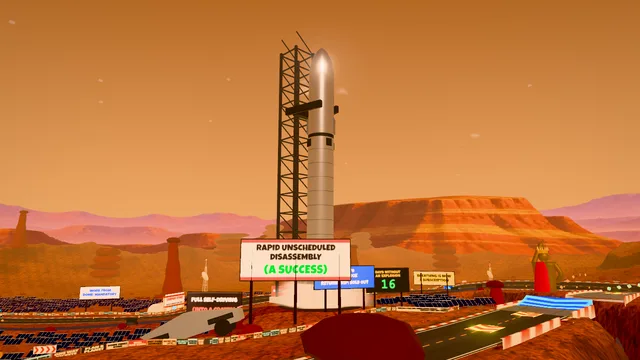
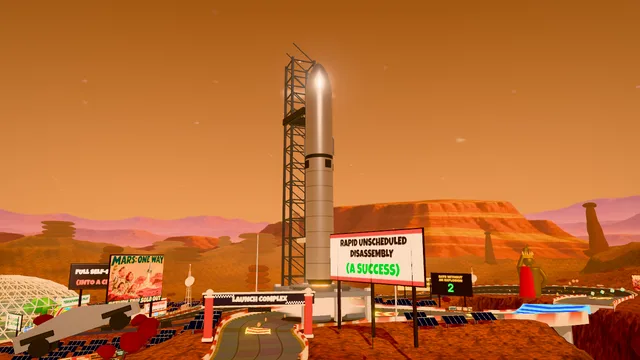
Mars Colony: painted mission posters, tree board, prototype landmark, thumbnail (#121, #87)
Four generated posters (one atlas, prompts in tools/gen-posters.mjs): MARS: ONE
WAY at the pad, VISIT EARTH before the crater, COLONISTS WANTED on the rim road,
TERRAFORMING 2% COMPLETE inside the dome. The tree board flips to TREES: 0 after
the bang; the crashed prototype stands at the hairpin apex; lamps and flags are
baked to keep the grid under 800 draw calls.

diff --git a/src/tracks/mars-colony.js b/src/tracks/mars-colony.js
@@ -237,6 +237,25 @@ function dress(ctx) {
     signAt(p.x, p.z, yaw, draw, w, h, up, opts); return p;
   };
   const RUST_HEX = '#c1440e', INK = '#1f1418', CREAM = '#f2efe6';
+  // painted posters (generated art, tools/gen-posters.mjs): one 2x2 atlas image, one mesh for all of them
+  const posters = (() => {
+    const tex = new THREE.TextureLoader().load('assets/posters/mars-colony.webp'); tex.colorSpace = THREE.SRGBColorSpace; tex.anisotropy = 8;
+    const q = new K.Quads();
+    return {
+      place(k, c, yaw, w, h) { const u0 = (k % 2) / 2, v1 = 1 - Math.floor(k / 2) / 2; q.panel(c, yaw, w, h, [u0 + 0.002, v1 - 0.498, u0 + 0.498, v1 - 0.002]); },
+      flush() { if (q.empty) return; const m = new THREE.Mesh(q.geometry(), new THREE.MeshStandardMaterial({ map: tex, emissiveMap: tex, emissive: 0xffffff, emissiveIntensity: 0.4, roughness: 0.6 })); m.matrixAutoUpdate = false; ctx.group.add(m); },
+    };
+  })();
+  /** A painted poster on a board beside the road (poster k of the atlas), with a lettered back. */
+  const poster = (at, side, off, k, back, { w = 15, h = 10, up = 9, turn = 0.45 } = {}) => {
+    const p = sc.beside(at, side, off), yaw = faceIn(p.i, side, turn), rx = Math.cos(yaw) * w / 2, rz = -Math.sin(yaw) * w / 2;
+    if (!clear(p.x, p.z, 0.5) || !clear(p.x + rx, p.z + rz, 0.5) || !clear(p.x - rx, p.z - rz, 0.5)) return null;
+    const y0 = sc.y(p.x, p.z), f = K.signFrame(w, h, up, { color: 0x2a2026, legs: 2 }); sc.place(f, p.x, p.z, { yaw, y: y0 }); bake.add(f); take(p.x, p.z, w * 0.55);
+    posters.place(k, [p.x + Math.sin(yaw) * 0.03, y0 + up, p.z + Math.cos(yaw) * 0.03], yaw, w, h);
+    const r = atlas.add(768, 512, K.board(back, { bg: INK, fg: CREAM, size: 120, stripe: RUST_HEX }));
+    atlas.place(r, [p.x - Math.sin(yaw) * 0.39, y0 + up, p.z - Math.cos(yaw) * 0.39], yaw + Math.PI, w, h);
+    return p;
+  };
   // spots the gags will stand on, kept clear of the domes, rocks, and solar panels
   for (const [at, side, off, r] of [[0.55, 1, 9, 13], [4.3, 1, 32, 10], [7.0, 1, 36, 20], [20.6, -1, 22, 16], [19.6, 1, 20, 12], [26.3, -1, 18, 14], [1.35, 1, 18, 11], [4.2, -1, 18, 11], [9.4, 1, 26, 13], [13.9, -1, 18, 11], [18.4, 1, 18, 11], [21.9, -1, 20, 11], [25.6, -1, 18, 11]]) { const p = sc.beside(at, side, off); take(p.x, p.z, r); }
 
@@ -688,10 +707,11 @@ function dress(ctx) {
     const inDome = (x, z, m) => Math.hypot(x - DOME.x, z - DOME.z) < DOME.r - m;
     const ponds = [];
     for (const side of [1, -1]) { const p = sc.beside(22.05, side, 19); if (inDome(p.x, p.z, 9)) ponds.push(p); }
+    const boardsIn = [[21.95, -1, 17], [21.72, 1, 12.5], [22.5, -1, 12.5]].map(([a, sd, o]) => sc.beside(a, sd, o));   // the boards inside keep a clearing
     const spots = [];
     for (let gx = -DOME.r; gx <= DOME.r; gx += 6) for (let gz = -DOME.r; gz <= DOME.r; gz += 6) {
       const x = DOME.x + gx + rng.range(-2, 2), z = DOME.z + gz + rng.range(-2, 2);
-      if (!inDome(x, z, 4) || !clear(x, z, 1.5) || ponds.some(p => near(x, z, p, 9))) continue;
+      if (!inDome(x, z, 4) || !clear(x, z, 1.5) || ponds.some(p => near(x, z, p, 9)) || boardsIn.some(p => near(x, z, p, 9))) continue;
       const room = DOME.h * Math.sqrt(Math.max(0, 1 - (Math.hypot(x - DOME.x, z - DOME.z) / DOME.r) ** 2));
       spots.push({ x, y: track.terrainHeight(x, z), z, yaw: rng() * 6.28, room });
     }
@@ -868,11 +888,17 @@ function dress(ctx) {
   // ---- billboards where you are looking anyway ----
   const BOARDS = [
     [1.35, 1, 18, 'FUNDING SECURED', INK, '#38ff74'], [4.2, -1, 18, 'FULL SELF-LANDING: NEXT YEAR', CREAM, RUST_HEX],
-    [8.3, 1, 35, 'TICKET TO MARS: $500K', '#1f6bff', '#ffffff', 'RETURN TRIP: SOLD OUT'], [13.9, -1, 18, 'EARTH: HAD ITS CHANCE', '#2f7fe0', '#ffffff'],
-    [18.4, 1, 18, 'BREATHING IS NOW A SUBSCRIPTION', '#ffd23c', INK], [21.9, -1, 20, 'WORK FROM DOME: MANDATORY', '#ffffff', '#1f6bff'],
+    [18.4, 1, 18, 'BREATHING IS NOW A SUBSCRIPTION', '#ffd23c', INK],
     [25.6, -1, 18, 'MARS: NO REGULATORS', RUST_HEX, '#ffffff', '(OR ATMOSPHERE)'],
   ];
   for (const [at, side, off, text, bg, fg, sub] of BOARDS) sign(at, side, off, K.board(text, { bg, fg, size: 130, sub, subFg: fg, subScale: 0.6 }), 20, 6.6, 10, { turn: 0.45 });
+  // the painted posters: the travel poster at the pad, Earth as a holiday spot before the crater, the recruiting
+  // poster on the rim road, and the terraforming promise inside the dome
+  poster(8.7, 1, 22, 0, 'NO REFUNDS', { w: 18, h: 12, up: 10 });
+  poster(13.9, -1, 18, 1, 'EARTH: HAD ITS CHANCE');
+  poster(5.6, 1, 36, 2, 'MUST BRING OWN OXYGEN', { w: 21, h: 14, up: 11, turn: 0.5 });
+  poster(21.95, -1, 17, 3, 'WORK FROM DOME: MANDATORY', { w: 13.5, h: 9, up: 7.5 });
+  posters.flush();
 
   bake.flush();
   atlas.flush();
